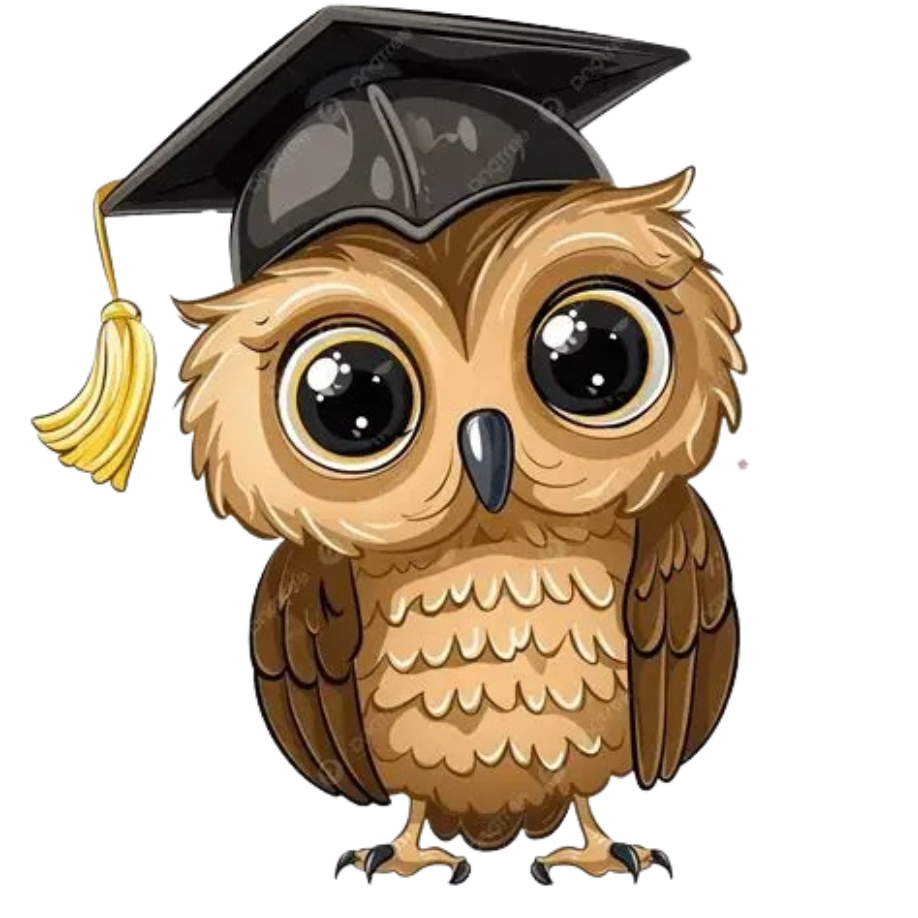
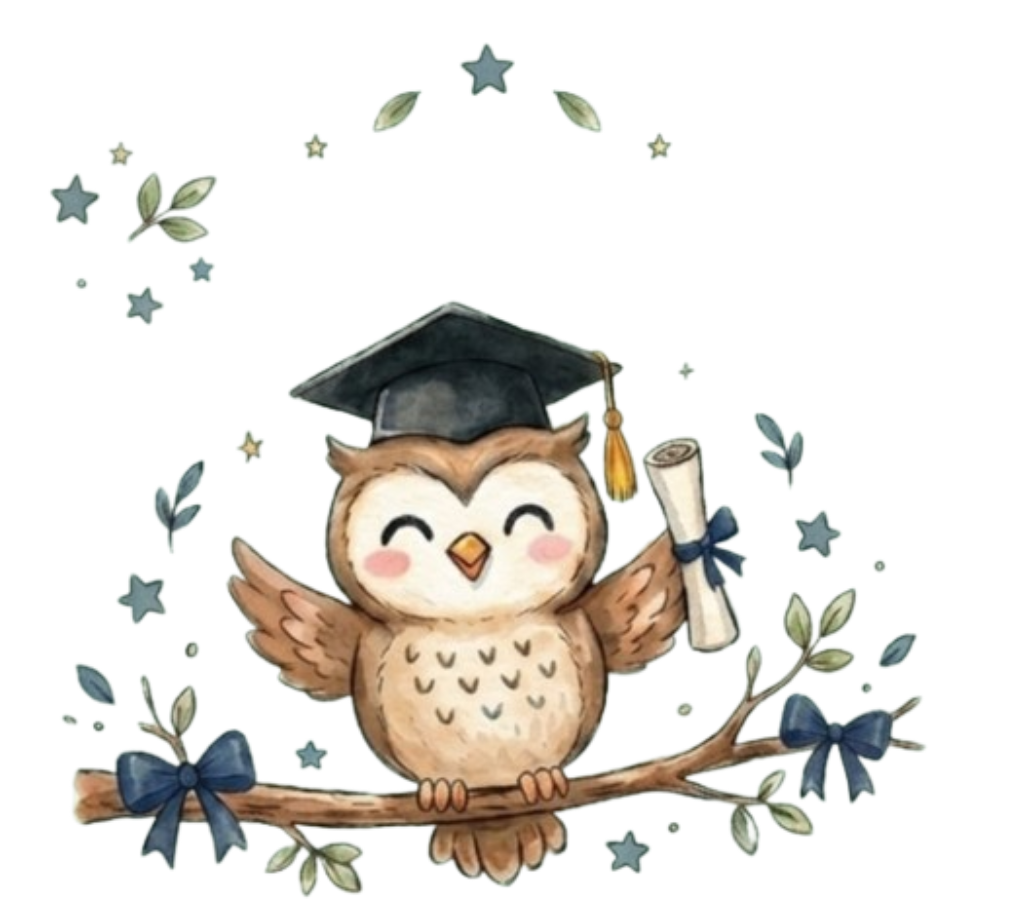
update owl, letter image

diff --git a/app/invite/[slug]/InviteCard.tsx b/app/invite/[slug]/InviteCard.tsx
@@ -16,25 +16,24 @@ export default function InviteCard({ guestName }: { guestName: string }) {
           {/* Mặt trước */}
           <div className="flip-card-front">
             {/* Hình trang trí 4 góc */}
-            <img src="/flipped-image.png" alt="Cá trái" style={{ position: 'absolute', top: '15px', left: '15px', width: '45px', zIndex: 10 }} />
-            <img src="/caheophai.png" alt="Cá phải" style={{ position: 'absolute', top: '15px', right: '15px', width: '45px', zIndex: 10 }} />
+            <img src="/flipped-image.png" alt="Cá trái" style={{ position: 'absolute', top: '15px', left: '10px', width: '60px', zIndex: 10 }} />
+            <img src="/caheophai.png" alt="Cá phải" style={{ position: 'absolute', top: '15px', right: '10px', width: '60px', zIndex: 10 }} />
             <img src="/minion1.png" alt="Minion trái" style={{ position: 'absolute', bottom: '15px', left: '15px', width: '55px', zIndex: 10 }} />
             <img src="/minion2.png" alt="Minion phải" style={{ position: 'absolute', bottom: '15px', right: '15px', width: '55px', zIndex: 10 }} />
 
-            <div className="bow" style={{ marginTop: '10px' }}>🎀</div>
-            <p style={{ fontSize: '18px', margin: '4px 0', color: '#1565c0', fontWeight: 600 }}>Thân gửi {guestName},</p>
+            {/* <div className="bow" style={{ marginTop: '10px' }}>🎀</div> */}
+            <p style={{ fontSize: '18px', margin: '4px 0', color: '#1565c0', fontWeight: 600 }}>Thân gửi  {guestName},</p>
             <h1 className="main-title" style={{ fontSize: '17px', margin: '4px 0' }}>TRÂN TRỌNG KÍNH MỜI BẠN<br />ĐẾN DỰ LỄ TỐT NGHIỆP CỦA <br /> NHƯ NGỌC</h1>
 
-            <img src="/image copy.png" alt="Cú tốt nghiệp" style={{ width: '70px', margin: '10px 0' }} />
+            <img src="/image copy.png" alt="Cú tốt nghiệp" style={{ width: '250px', margin: '10px ' }} />
 
-            <div style={{ fontSize: '12.5px', color: '#1565c0', textAlign: 'center', lineHeight: '1.4' }}>
+            <div style={{ fontSize: '12.5px', color: '#033f83ff', textAlign: 'center', lineHeight: '1.4' }}>
               <p style={{ margin: '3px 0' }}><strong>⏰ 17h00 - 17h30 Thứ Bảy, 04/04/2026</strong></p>
               <p style={{ margin: '3px 0' }}><strong>📍 UEH cơ sở A</strong> - 59C Nguyễn Đình Chiểu,<br />Phường Võ Thị Sáu, Quận 3, TP.HCM</p>
               <p style={{ margin: '3px 0' }}><strong>📞 Liên hệ: 0795444502</strong></p>
-
-              <div style={{ marginTop: '12px', fontSize: '11px', textAlign: 'left', background: 'rgba(255,255,255,0.6)', padding: '8px', borderRadius: '8px', boxShadow: '0 2px 4px rgba(0,0,0,0.05)' }}>
-                <strong>🚗 Bãi đỗ xe Ô tô/Xe máy: (Tùy chọn)</strong>
-                <ul style={{ margin: '4px 0 0', paddingLeft: '16px', color: '#0d47a1' }}>
+              <div style={{ marginTop: '10px', fontSize: '8px', textAlign: 'left', background: 'rgba(255,255,255,0.7)', padding: '6px 10px', borderRadius: '8px', boxShadow: '0 2px 8px rgba(0,0,0,0.06)', width: '90%', border: '1px solid rgba(13, 71, 161, 0.1)' }}>
+                <strong style={{ color: '#0d47a1', display: 'block', marginBottom: '2px' }}>🚗 Bãi đỗ xe</strong>
+                <ul style={{ margin: '0', paddingLeft: '10px', color: '#1565c0', listStyleType: 'circle', lineHeight: '1.3' }}>
                   <li>Bãi xe trụ sở cơ quan đối diện Hồ Con Rùa</li>
                   <li>Bộ GD&ĐT – 03 Công Trường Quốc Tế</li>
                   <li>Công viên cây xanh – 02 Công Trường Quốc Tế</li>
@@ -52,7 +51,7 @@ export default function InviteCard({ guestName }: { guestName: string }) {
                 setFlipped(!flipped)
               }}
             >
-              Xem chi tiết →
+              Click →
             </button>
           </div>
 

diff --git a/app/invite/[slug]/invite.css b/app/invite/[slug]/invite.css
@@ -42,7 +42,7 @@
     border-radius: 18px;
     backface-visibility: hidden;
     overflow: hidden;
-    border: 12px solid #0277bd;
+    border: 12px solid white;
     box-sizing: border-box;
 }
 
